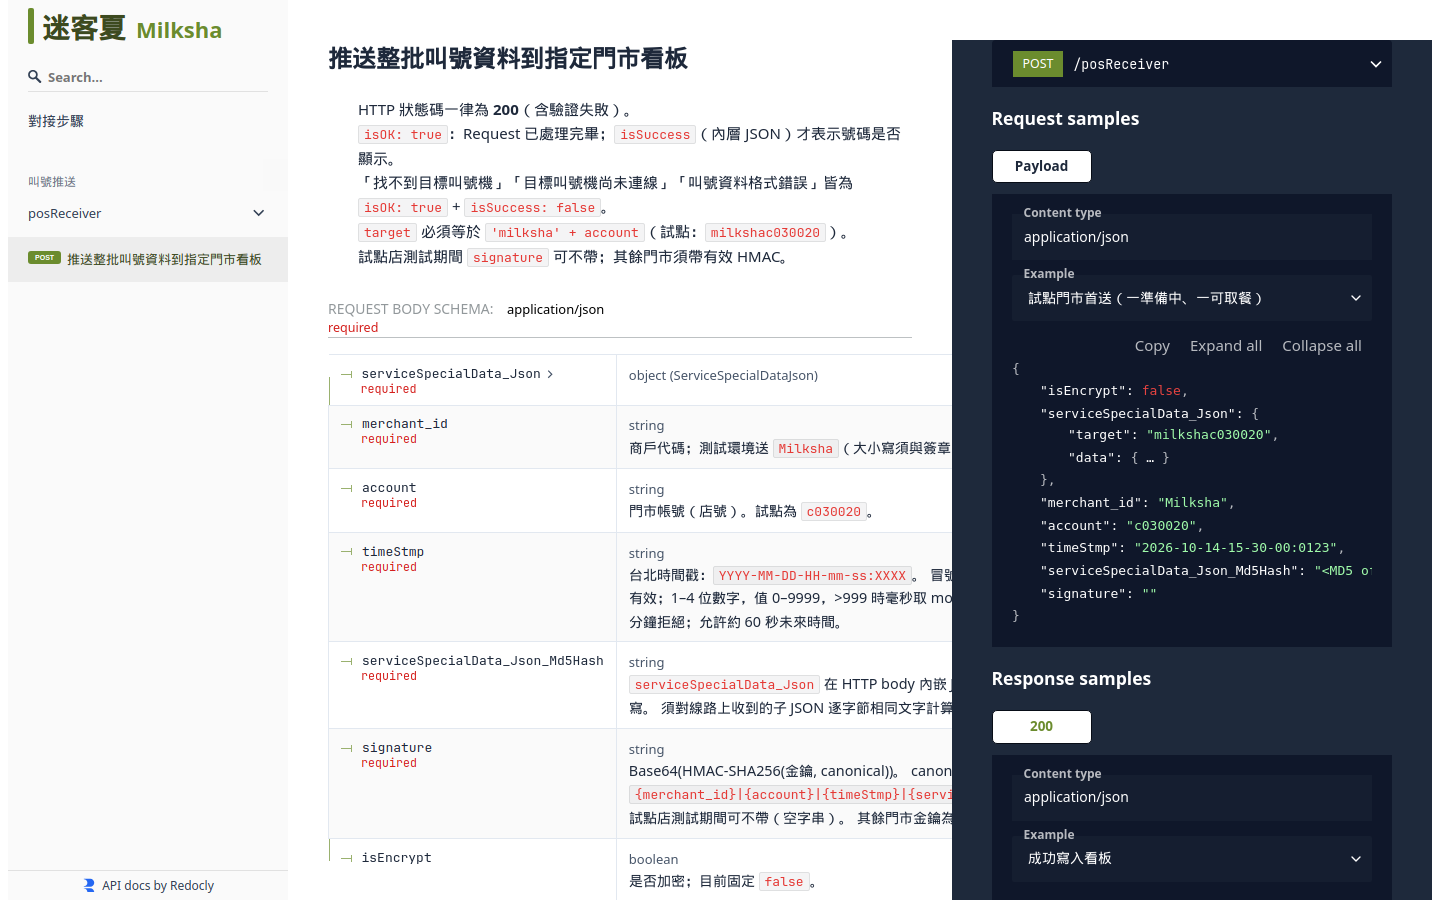
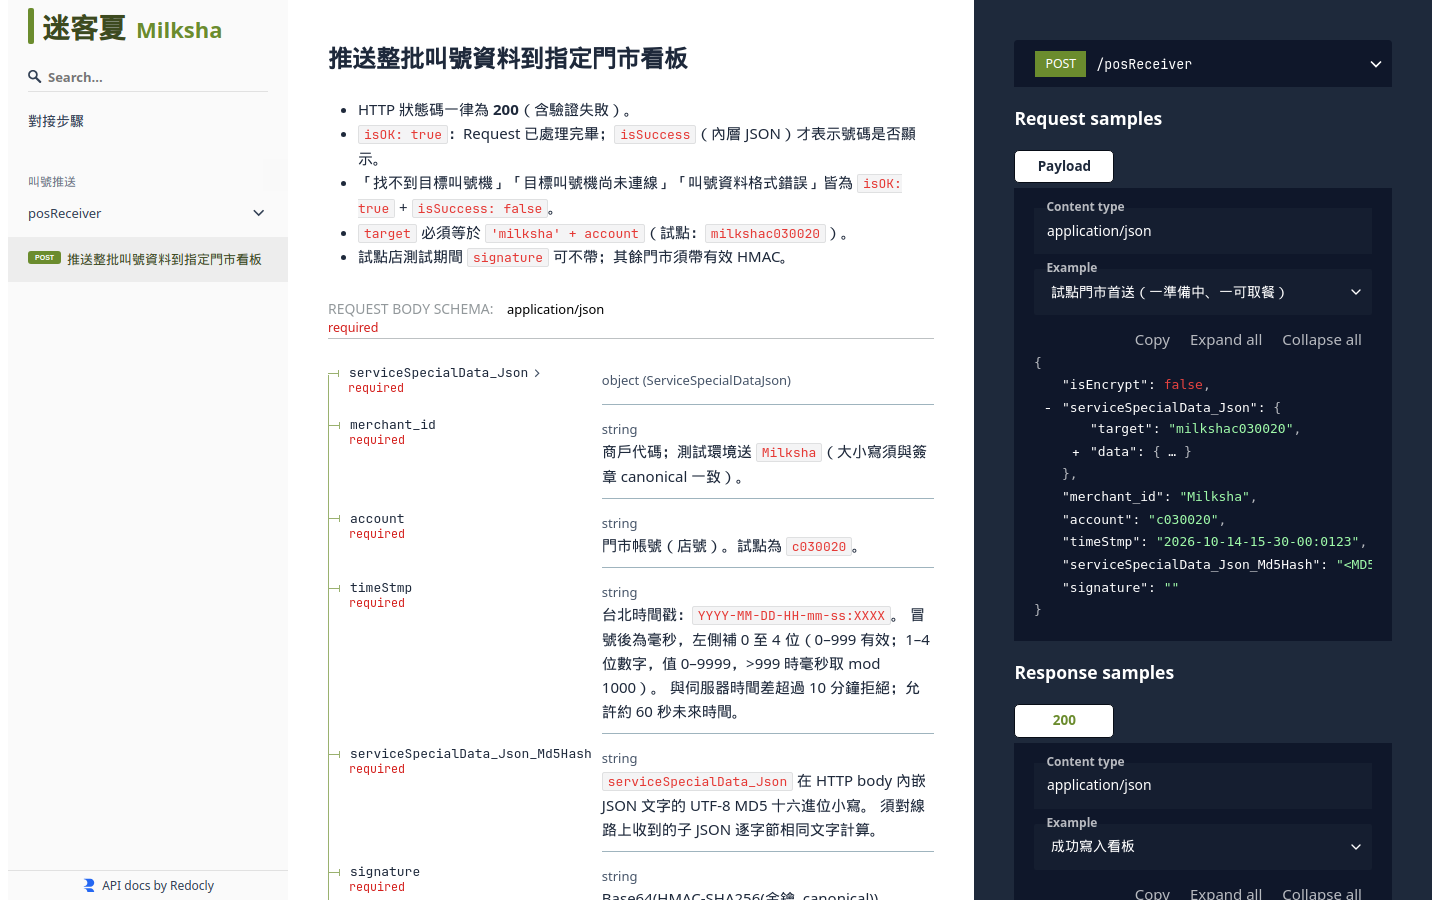
fix(docs/api): restore Redoc grid; stop schema table overlap
Remove empty-panel CSS override and global td pre rules; scope intro
table/code styles to .api-info. Retake 1440x900 previews.

diff --git a/docs/api/redoc-overrides.css b/docs/api/redoc-overrides.css
@@ -19,21 +19,8 @@
   color: #6b8c2e;
 }
 
-/* Hide empty sticky right panel; samples fill it when present */
-.redoc-wrap .sc-dExYaf:empty {
-  display: none !important;
-  width: 0 !important;
-  min-width: 0 !important;
-  max-width: 0 !important;
-  padding: 0 !important;
-  margin: 0 !important;
-  border: none !important;
-  overflow: hidden !important;
-  flex: 0 0 0 !important;
-}
-
-/* Markdown tables in description */
-.redoc-wrap table {
+/* Markdown tables in API intro description only (not schema tables) */
+.redoc-wrap .api-info table {
   display: table;
   width: 100%;
   border-collapse: collapse;
@@ -42,21 +29,21 @@
   line-height: 1.45;
 }
 
-.redoc-wrap table th,
-.redoc-wrap table td {
+.redoc-wrap .api-info table th,
+.redoc-wrap .api-info table td {
   border: 1px solid #e2e8f0;
   padding: 0.55rem 0.75rem;
   text-align: left;
   vertical-align: top;
 }
 
-.redoc-wrap table th {
+.redoc-wrap .api-info table th {
   background: #f1f5f9;
   font-weight: 600;
   color: #0f172a;
 }
 
-.redoc-wrap table tr:nth-child(even) td {
+.redoc-wrap .api-info table tr:nth-child(even) td {
   background: #fafafa;
 }
 
@@ -81,17 +68,28 @@
   min-width: max-content;
 }
 
-.redoc-wrap p,
-.redoc-wrap li {
+.redoc-wrap .api-info p,
+.redoc-wrap .api-info li {
   overflow-x: auto;
 }
 
-.redoc-wrap p code,
-.redoc-wrap li code,
-.redoc-wrap td code {
+.redoc-wrap .api-info p code,
+.redoc-wrap .api-info li code,
+.redoc-wrap .api-info td code {
   white-space: pre !important;
   word-break: normal !important;
   overflow-wrap: normal !important;
+}
+
+/* Schema tables: wrap descriptions inside the middle column */
+.redoc-wrap table:not(.api-info table) td {
+  overflow-wrap: break-word;
+  word-break: break-word;
+}
+
+.redoc-wrap table:not(.api-info table) td code {
+  white-space: normal !important;
+  word-break: break-word !important;
 }
 
 .redoc-wrap .react-tabs__tab-panel pre,

diff --git a/docs/api/index.html b/docs/api/index.html
@@ -87,7 +87,6 @@
             },
             rightPanel: {
               backgroundColor: "#1e293b",
-              width: "42%",
             },
             codeBlock: {
               backgroundColor: "#0f172a",
